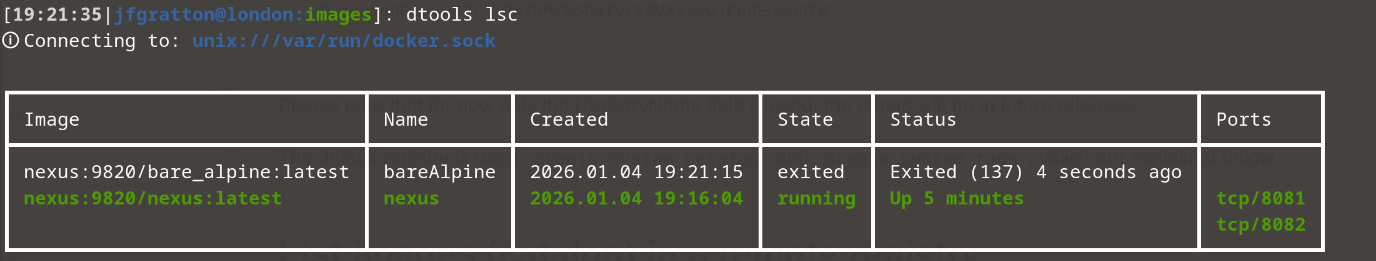
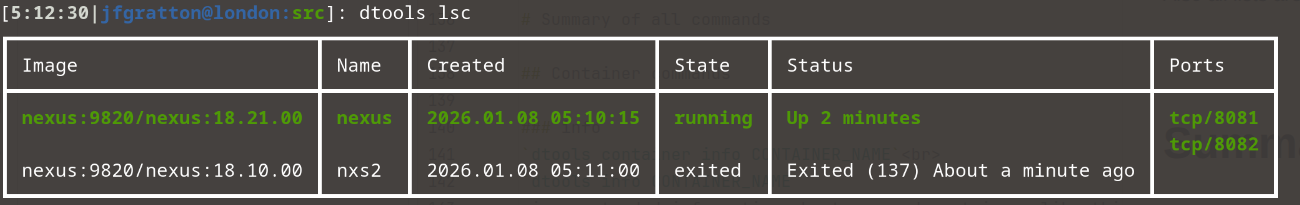
Completed the documentation

Changed region(s): [[0.0, 0.2634, 0.9846, 0.9659], [0.0, 0.0293, 0.9846, 0.2049]]

diff --git a/README.md b/README.md
@@ -1,4 +1,4 @@
-# <img src="./dtools2-logo_small.png" alt="dtools2 logo" height="48" /> dtools2
+# <img src="./images/dtools2-logo_small.png" alt="dtools2 logo" height="48" /> dtools2
 
 A drop-in client replacement for the official docker and podman clients
 ___
@@ -140,22 +140,8 @@ Also all lists are output as tables, for better readability
 ### info
 `dtools container info CONTAINER_NAME`<br>
 `dtools info CONTAINER_NAME`
-gives extended information about a named container, like this:
-```bash
-[2:05:12|jfgratton@london:src]: dtools container info nexus           
-🛈 Connecting to: unix:///var/run/docker.sock
-
-Container name      nexus
-Image               nexus:9820/nexus:18.10.00
-Created             2026.01.04 01:56:57
-State               exited
-Status              exited (255) 7 minutes ago
-RW filesystem size  0.001 MB
-RootFS size         812.732 MB
-Exposed ports       
-Mount points        ✅  [nexus-data]:/opt/nexus3/sonatype-work/nexus3
-Command             /entrypoint.sh
-```
+gives extended information about a named container, like this:<br>
+<img src="./images/info.png" alt="dtools info nexus"/>
 
 ### kill/killall, start/startall, stop/stopall, restart/restartall, pause/unpause, rename
 *Note:*
@@ -178,21 +164,26 @@ the kill/start/stop/restart commands:
 Notice that `dtools up` is an alias to `dtools start`. Some commands have aliases set that way, explore with -`h`
 
 ### list containers
-`dtools container lsc [-r] [-x]`, `dtools lsc [-r] [-x]`
+`dtools lsc [-r] [-x]`
 
 This lists all containers on the daemon
 - `-r` : only running containers
-- `-x` : provides extended information
+- `-x` : provides extended information<br>
+
+
+<img src="./images/lsc.png" alt="dtools lsc"/>
 
 ### remove containers
 `dtools container rmc [flags] CONTAINER_NAME`, `dtools rmc [flags] CONTAINER_NAME`
 
-You can chain multiple containers like this: `dtools rmc [flags] CONTAINER1 CONTAINER2 CONTAINER3` etc
+You can chain multiple containers like this: `dtools rmc [flags] CONTAINER1 CONTAINER2 CONTAINER3` etc<br>
+The blacklist feature can be applied here<br>
 
 ## Image commands
 
 ### list images
-`dtools image lsi`, `dtools lsi`
+`dtools lsi`
+<img src="./images/lsi.png" alt="dtools lsi"/>
 
 ### pull/push image from/to a remote registry
 `dtools image pull REPO:IMAGE:TAG`, `dtools pull REPO:IMAGE:TAG`<br>
@@ -201,10 +192,16 @@ You can chain multiple containers like this: `dtools rmc [flags] CONTAINER1 CONT
 ### tag an image
 `dtools image tag IMAGE:TAG IMAGE:NEW_TAG`, `dtools tag IMAGE:TAG IMAGE:NEW_TAG`
 
+### remove an image
+`dtools rmi repository/image name:tag` or `dtools rmi image id`<br>
+The blacklist feature can be applied here<br>
+
 ## Network commands
 
 ### list networks
-`dtools network lsn`, `dtools lsn`
+`dtools lsn`<br>
+
+<img src="./images/lsn.png" alt="dtools lsn"/>
 
 ### create networks
 `dtools network create [flags] NETWORK_NAME`<br>
@@ -212,15 +209,43 @@ The flags are important, have a look at them : `dtools net add -h`
 
 ### remove networks
 `dtools net remove [flags] NETWORK_NAME`, `dtools net rmn NETWORK_NAME`, `dtools rmn NETWORK_NAME`<br>
-You can chain multiple network names to remove them all at once
+You can chain multiple network names to remove them all at once<br>
+The blacklist feature can be applied here<br>
 
 ### attach/detach a network from a container
 `dtools network attach NETWORK_NAME CONTAINER_NAME`, `dtools network detach NETWORK_NAME CONTAINER_NAME`
 
 ## Volume commands
 
+### list volumes
+`dtools lsv`<br>
+
+<img src="./images/lsv.png" alt="dtools lsv"/><br>
 ### create volumes
 `dtools volume create [-d DRIVER_NAME] VOLUME_NAME`<br>
 
 A very basic support is offered here. Basically, you should create a volume using the `local` driver.<br>
-If you have third-party drivers and those do not need any special treatment such as options, etc, you can use that with the `-d` flag
+If you have third-party drivers and those do not need any special treatment such as options, etc, you can use that with the `-d` flag<br>
+
+### volume prune
+`dtools volume prune`
+
+This will command will remove all unused volumes. A volume is defined as *unused* when its RefCount (ref: `dtools lsv`) is equal to 0<br>
+The blacklist feature can be applied here<br>
+
+### volume removal
+`dtools rmv VOLUME`
+
+Removes a volume, blacklist feature can be applied here.
+
+## Extra features, nice-to-add
+
+### JSON and file output to lists
+The commands `lsc`, `lsi`, `lsn`, `lsv` used to respectively list containers, images, networks and volumes can have extra
+flags to handle output:
+
+- the `--json` flag informs the client that the output should rendered as a JSON payload
+- additionally, if the above `--json` is set, a further `--format KEY_NAME` flag can be used to list only the keys of that name, in plaintext<br>
+if `--format` is empty, the flag is ignored
+- the `--file FILENAME` can be used to send the output to a file as JSON
+- if none of the above flags are present, the output is rendered in a table
